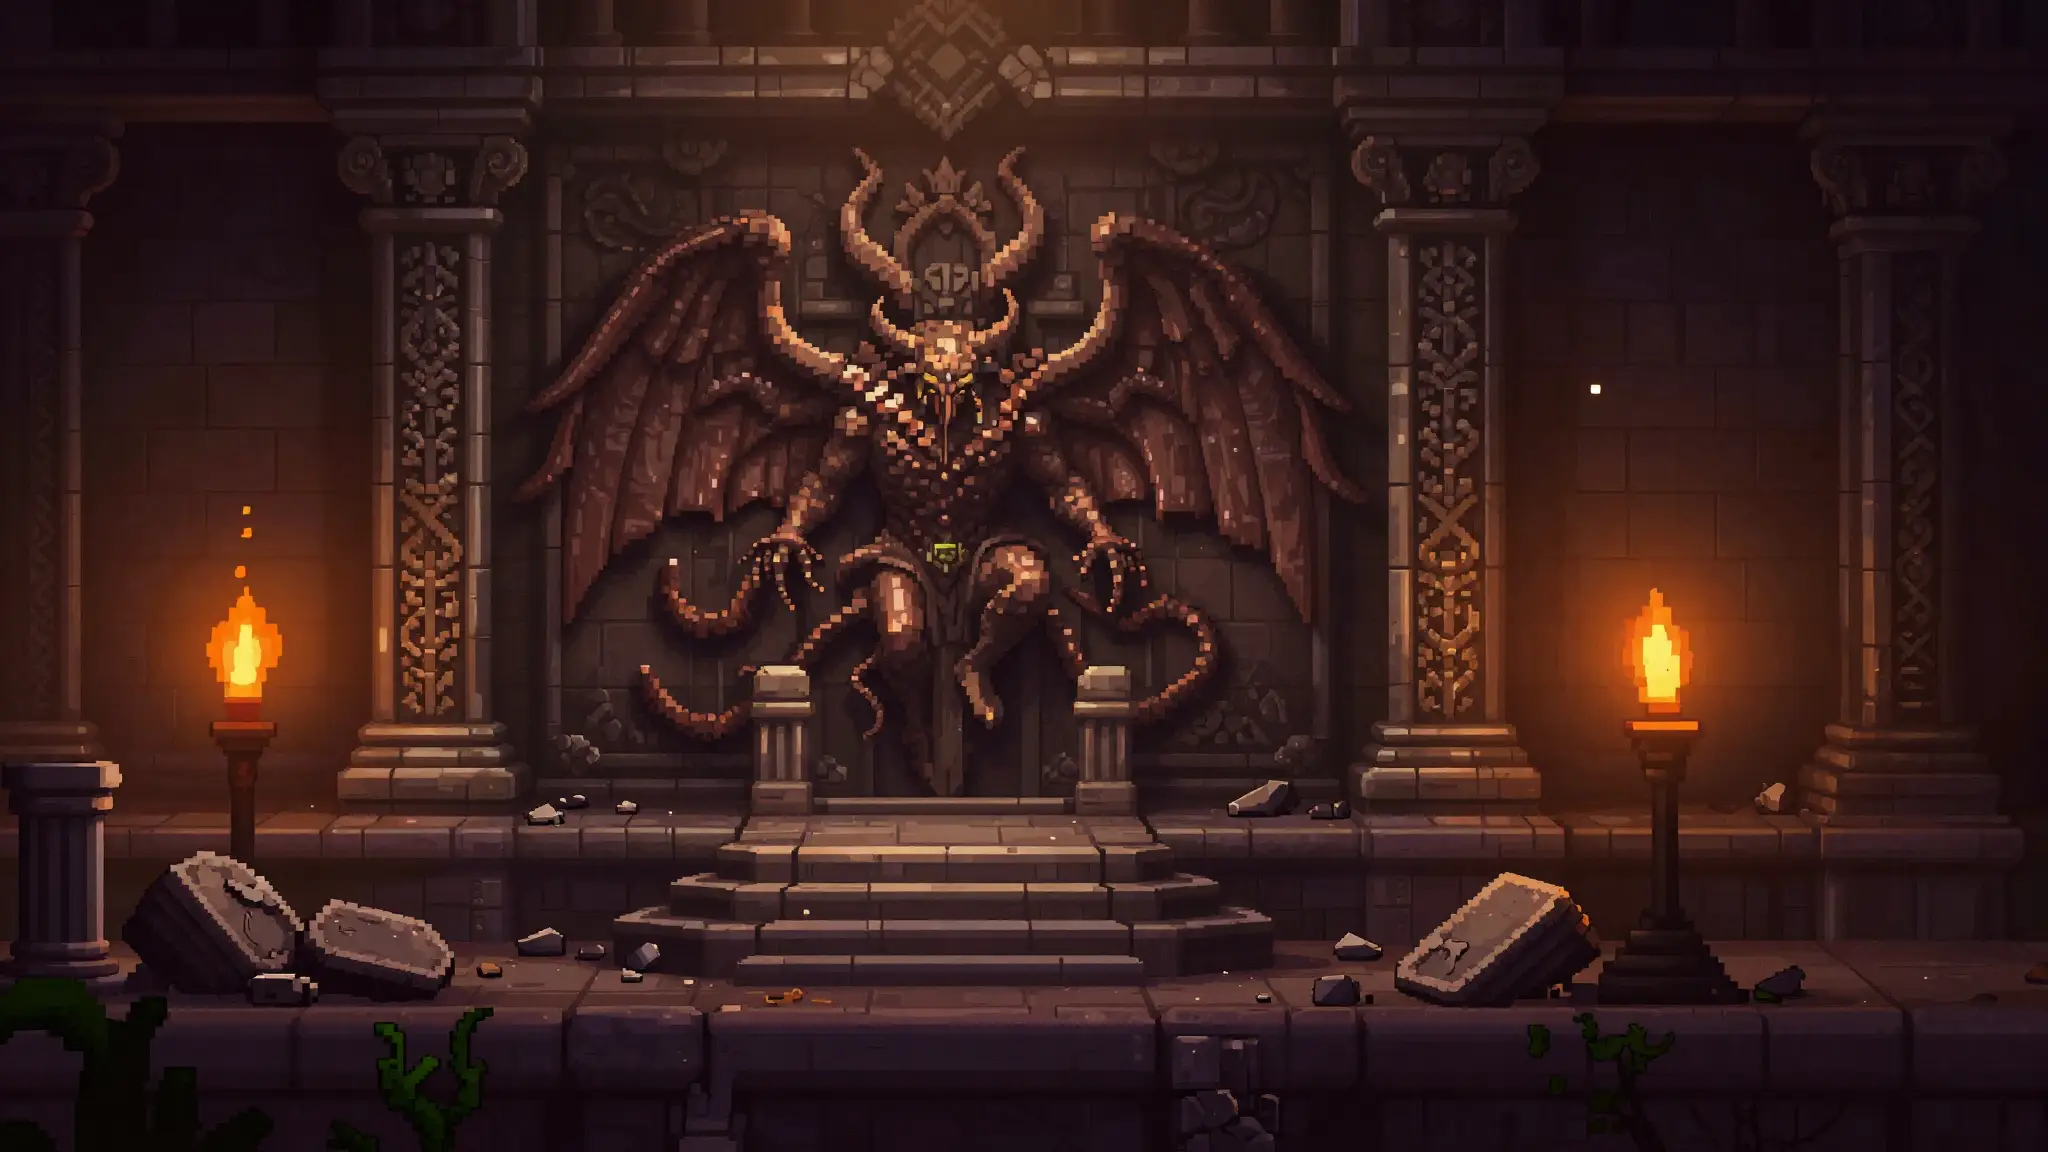
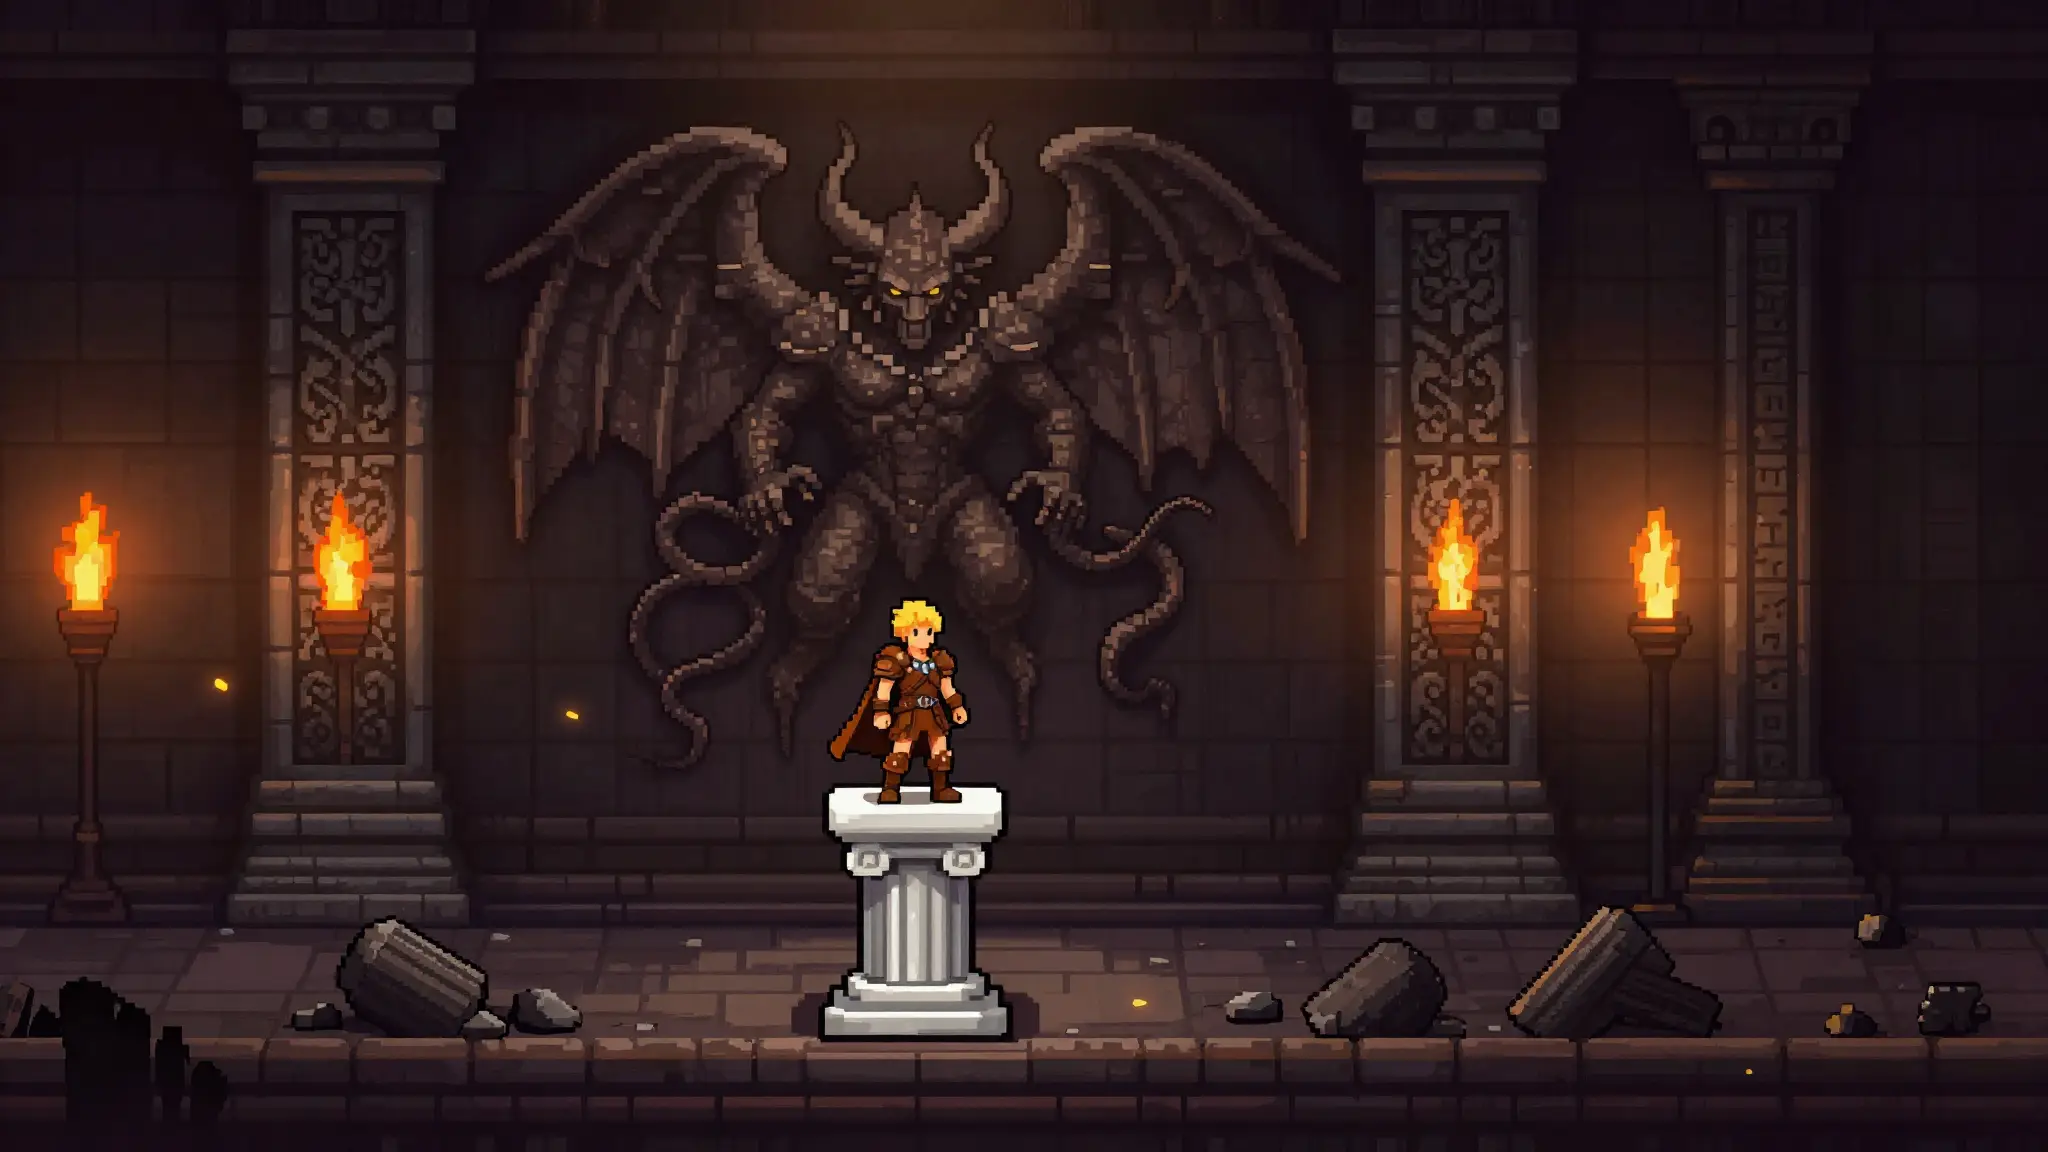
Unify on the background art style; animate firelight
- Generate the whole scene (dungeon + hero on a white marble Greek column)
  in one consistent flat 2D style via z_image — fixes the pixel-vs-3D clash
- Hero is part of the scene; drop the mismatched 3D cut-out character
- Animate the fire: scene-wide firelight flicker + pulsing warm glow over the
  torch zones (no floating shapes), full scene shown, Guest plate over hero

diff --git a/css/style.css b/css/style.css
@@ -446,41 +446,34 @@ img,svg{display:block}
    width:100%;aspect-ratio:16/9;max-height:100%}
 .dgn__bg{width:100%;height:100%;object-fit:cover;display:block}
 .dgn__scrim{position:absolute;inset:0;pointer-events:none;background:
-   linear-gradient(90deg,rgba(6,4,3,.74) 0%,rgba(6,4,3,.28) 24%,transparent 46%),
-   linear-gradient(180deg,rgba(6,4,3,.35) 0%,transparent 18%,transparent 72%,rgba(6,4,3,.5) 100%)}
+   linear-gradient(90deg,rgba(6,4,3,.6) 0%,rgba(6,4,3,.18) 22%,transparent 40%),
+   linear-gradient(180deg,rgba(6,4,3,.3) 0%,transparent 16%,transparent 74%,rgba(6,4,3,.45) 100%)}
 .dgn__vign{position:absolute;inset:0;pointer-events:none;background:
    radial-gradient(88% 80% at 50% 44%, transparent 58%, rgba(0,0,0,.48) 100%)}
 
-/* --- animated torch fire (sits on the baked torches) --- */
-.flame{position:absolute;width:30px;height:54px;pointer-events:none;transform:translate(-50%,-100%)}
-.flame--l{left:11%;top:57%}
-.flame--r{left:89%;top:57%}
-.flame::before{content:"";position:absolute;left:50%;top:34%;transform:translate(-50%,-50%);
-   width:150px;height:150px;border-radius:50%;mix-blend-mode:screen;
-   background:radial-gradient(circle,rgba(255,150,55,.5),rgba(255,90,20,.13) 45%,transparent 68%);
-   animation:firePulse 2.6s ease-in-out infinite}
-.flame i{position:absolute;left:50%;bottom:0;transform-origin:50% 100%;
-   transform:translateX(-50%) rotate(-45deg);border-radius:0 50% 50% 50%;mix-blend-mode:screen;
-   animation:flick2 .32s ease-in-out infinite alternate}
-.flame i:nth-child(1){width:26px;height:42px;background:radial-gradient(circle at 60% 75%,#ff8a26,#cf330a)}
-.flame i:nth-child(2){width:17px;height:28px;background:radial-gradient(circle at 60% 75%,#ffd24a,#ff7a1e);animation-duration:.25s}
-.flame i:nth-child(3){width:8px;height:15px;background:#fff3b8;animation-duration:.19s}
-@keyframes flick2{from{transform:translateX(-54%) rotate(-47deg) scaleY(1)}to{transform:translateX(-46%) rotate(-42deg) scaleY(1.13)}}
-@keyframes firePulse{0%,100%{opacity:.7;transform:translate(-50%,-50%) scale(1)}50%{opacity:1;transform:translate(-50%,-50%) scale(1.1)}}
-.dgn__firelight{position:absolute;inset:0;pointer-events:none;mix-blend-mode:soft-light;
-   background:radial-gradient(60% 55% at 50% 60%, rgba(255,160,70,.18), transparent 72%);
-   animation:lightFlick 4s ease-in-out infinite}
-@keyframes lightFlick{0%,100%{opacity:.65}45%{opacity:1}72%{opacity:.55}}
+/* --- animated firelight: the baked torches come alive --- */
+.dgn__bg{animation:emberLight 5s ease-in-out infinite}
+@keyframes emberLight{
+  0%,100%{filter:brightness(1) saturate(1)}
+  20%{filter:brightness(1.06) saturate(1.06)}
+  45%{filter:brightness(.96) saturate(.98)}
+  70%{filter:brightness(1.05) saturate(1.05)}
+  86%{filter:brightness(.99) saturate(1)}
+}
+/* pulsing warm glow over the left + right torch zones and the brazier */
+.dgn__firelight{position:absolute;inset:0;pointer-events:none;mix-blend-mode:screen;
+   background:
+     radial-gradient(20% 24% at 22% 47%, rgba(255,150,55,.32), transparent 70%),
+     radial-gradient(20% 24% at 78% 47%, rgba(255,150,55,.32), transparent 70%),
+     radial-gradient(26% 26% at 50% 64%, rgba(255,150,55,.18), transparent 72%);
+   animation:lightFlick 3s ease-in-out infinite}
+@keyframes lightFlick{0%,100%{opacity:.5}40%{opacity:1}66%{opacity:.45}82%{opacity:.85}}
 
-/* --- hero standing on the white marble pedestal --- */
+/* --- pixel scene overlay (hero is baked into the bg) --- */
 .pscene{z-index:4;pointer-events:none}
-.char{position:absolute;left:50%;bottom:3%;transform:translateX(-50%);
-   height:84%;width:auto;filter:drop-shadow(0 16px 16px rgba(0,0,0,.5));
-   animation:bob 4s ease-in-out infinite}
-@keyframes bob{0%,100%{transform:translateX(-50%) translateY(0)}50%{transform:translateX(-50%) translateY(-5px)}}
 
-/* floating nameplate above the hero */
-.plate{position:absolute;left:50%;top:9%;transform:translateX(-50%);z-index:6;
+/* floating nameplate above the baked hero */
+.plate{position:absolute;left:50%;top:39%;transform:translateX(-50%);z-index:6;
    font-family:var(--fancy);font-size:26px;color:#f4ecd9;white-space:nowrap;
    display:flex;align-items:center;gap:11px;
    text-shadow:0 2px 0 #000,0 0 18px rgba(0,0,0,.9)}

diff --git a/index.html b/index.html
@@ -87,8 +87,6 @@
         <div class="dgn" aria-hidden="true">
           <div class="dgn__frame">
             <img class="dgn__bg" id="stageBg" src="assets/scene.webp" alt="The dungeon of New Geltion" />
-            <span class="flame flame--l"><i></i><i></i><i></i></span>
-            <span class="flame flame--r"><i></i><i></i><i></i></span>
             <div class="dgn__firelight"></div>
           </div>
           <div class="dgn__scrim"></div>
@@ -117,7 +115,6 @@
         <!-- hand-drawn pixel hero on the dais -->
         <div class="pscene">
           <div class="plate" id="nameplate"><span>Guest</span><span class="plate__dl">⬇</span></div>
-          <img class="char" id="charImg" src="assets/hero.webp" alt="Geltion hero" />
         </div>
 
         <!-- big CTA -->
